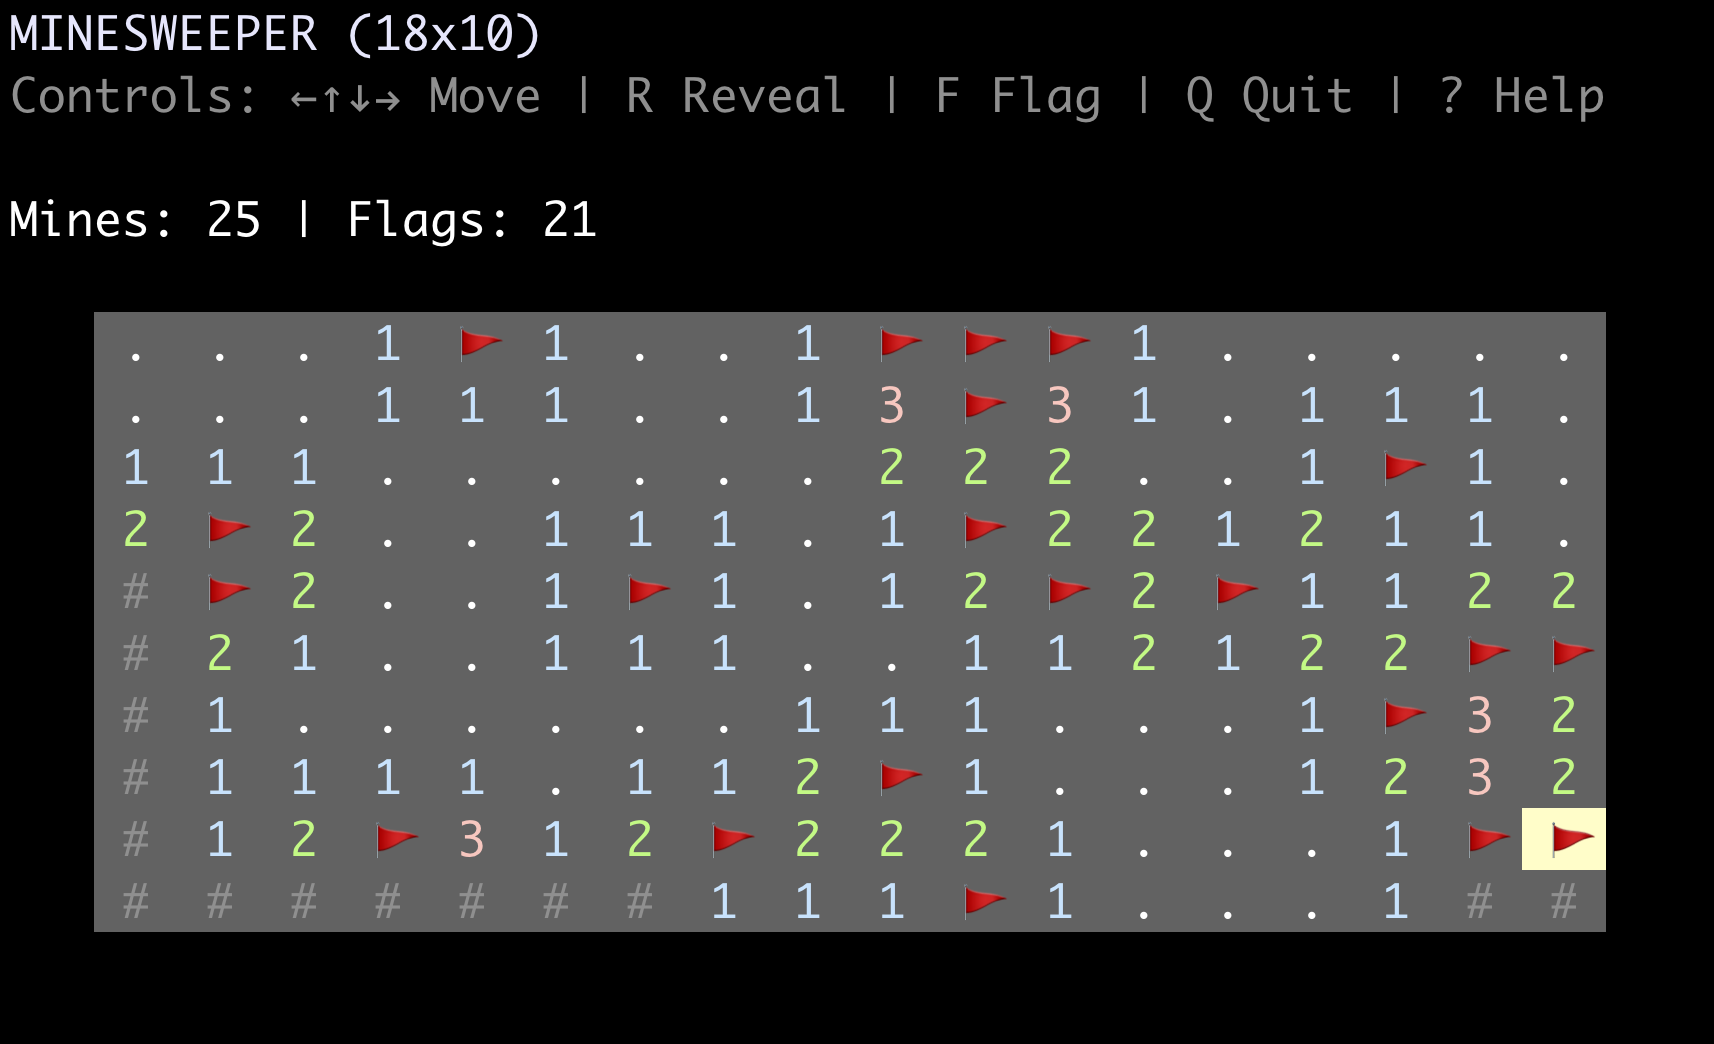
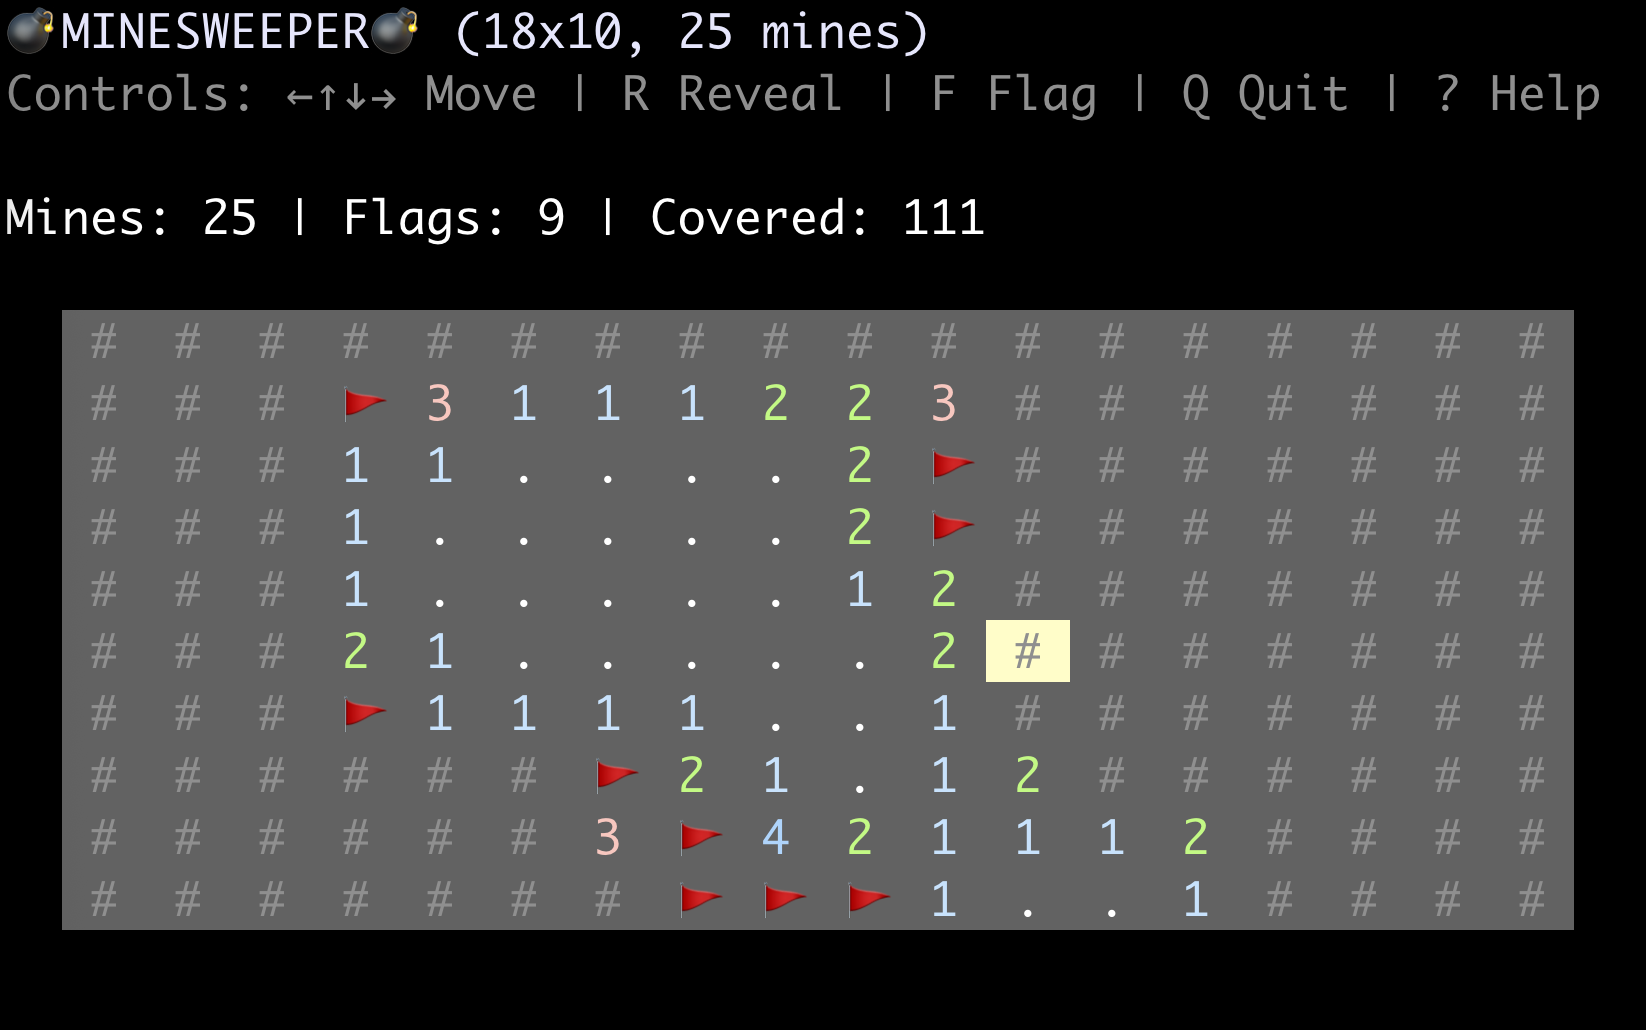
doc

diff --git a/src/tui.rs b/src/tui.rs
@@ -20,7 +20,7 @@ const COVERED: char = '#';
 const EMPTY: char = '.';
 
 // Offsets for drawing the board on the screen
-const BOARD_OFFSET_X: u16 = 3;
+const BOARD_OFFSET_X: u16 = 2;
 const BOARD_OFFSET_Y: u16 = 5;
 
 pub struct Tui {
@@ -137,7 +137,7 @@ impl Tui {
         //queue!(self.stdout, Clear(ClearType::All))?;
         // --- Draw static text ---
         let name = format!(
-            "MINESWEEPER ({}x{}, {} mines)",
+            "{BOMB} MINESWEEPER{BOMB}  ({}x{}, {} mines)",
             self.game.width, self.game.height, self.game.num_mines
         );
         queue!(
@@ -166,7 +166,7 @@ impl Tui {
                 let covered_cells = self.game.count(CellState::Covered);
                 // note - extra space at end to ensure last status is entirely cleared
                 format!(
-                    "Mines: {} | Flags: {flags_placed} | Covered: {covered_cells}    ",
+                    "Mines: {} | Flags: {flags_placed} | Covered: {covered_cells}              ",
                     self.game.num_mines
                 )
             }
